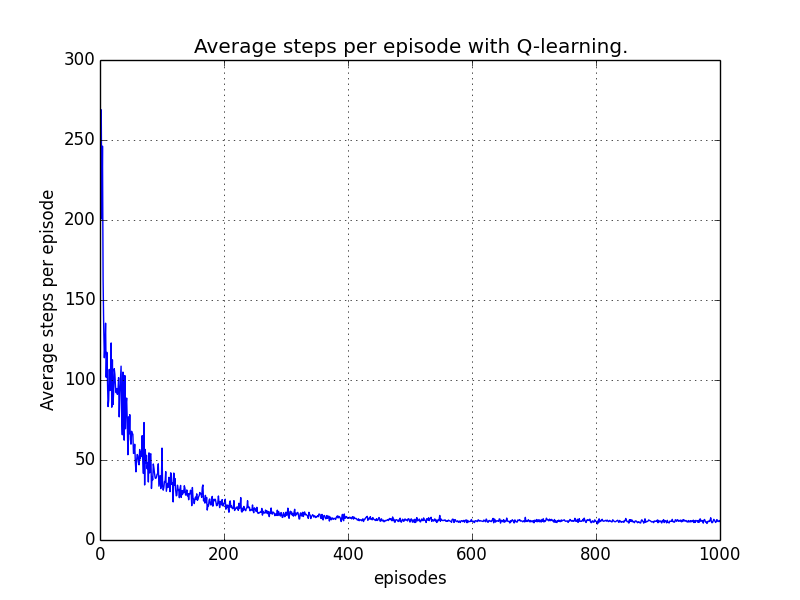
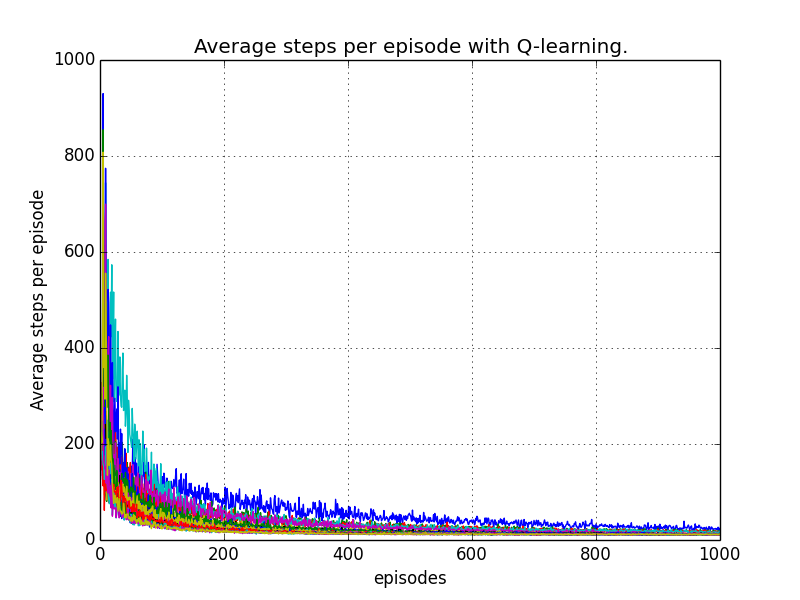
not sure

Changed region(s): [[0.0312, 0.18, 0.9062, 0.9], [0.0625, 0.09, 0.125, 0.12]]

diff --git a/Assignment 2/Assignment2.1.py b/Assignment 2/Assignment2.1.py
@@ -3,15 +3,17 @@ import numpy as np
 from pylab import *
 
 runCount = 20
-for alpha in range(0.1,0.6,0.1):
-	aveSteps = np.zeros(1000)
+for alpha in [0.1,0.2,0.3,0.4,0.5]:
+	for discount in [0.1,0.5,0.7,0.9]:
+		
+		aveSteps = np.zeros(1000)
 
-	for i in range(runCount):
-		aveSteps += np.array(Q.Qlearning(1000,Q.epsGreedyPolicy,alpha=alpha))
-	aveSteps /= runCount
+		for i in range(runCount):
+			aveSteps += np.array(Q.Qlearning(1000,Q.epsGreedyPolicy,alpha=alpha,discount=discount))
+		aveSteps /= runCount
 
-	t = range(1, aveSteps.shape[0]+1)
-	plot(t, aveSteps)
+		t = range(1, aveSteps.shape[0]+1)
+		plot(t, aveSteps)
 
 xlabel('episodes')
 ylabel('Average steps per episode')
